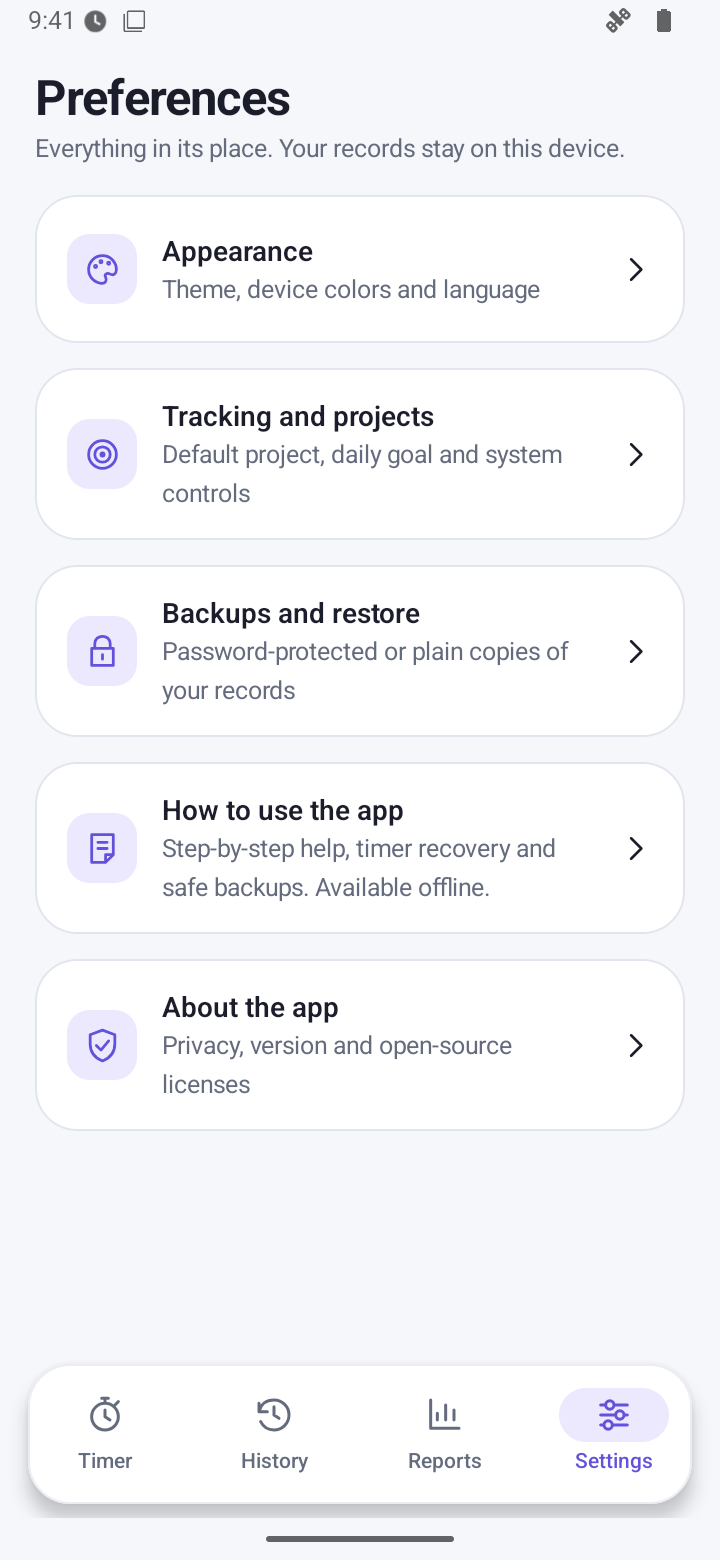
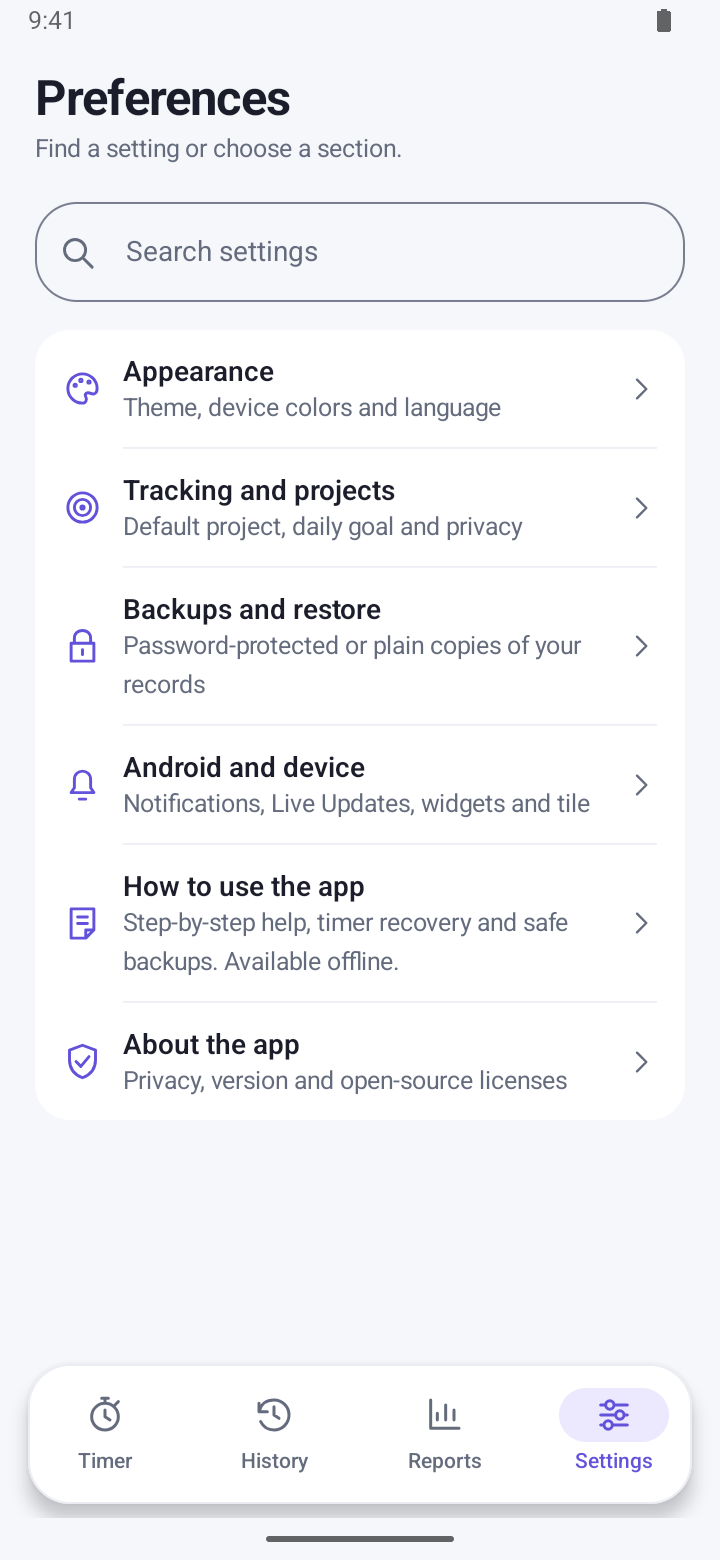
docs: refresh bilingual settings screenshots and build provenance

diff --git a/README.en.md b/README.en.md
@@ -82,7 +82,7 @@ it does not establish app approval.
 </details>
 
 The gallery contains 20 genuine `main` development screenshots from an AOSP
-Android 16 / API 36 emulator with made-up records. They show OTM's interface and
+Android 16 / API 36 emulator with made-up records or a fresh empty installation for settings. They show OTM's interface and
 ordinary Android notification, not HyperOS or a working island. Capture provenance
 is documented separately.
 [About the screenshots](docs/screenshots/README.md#english).
